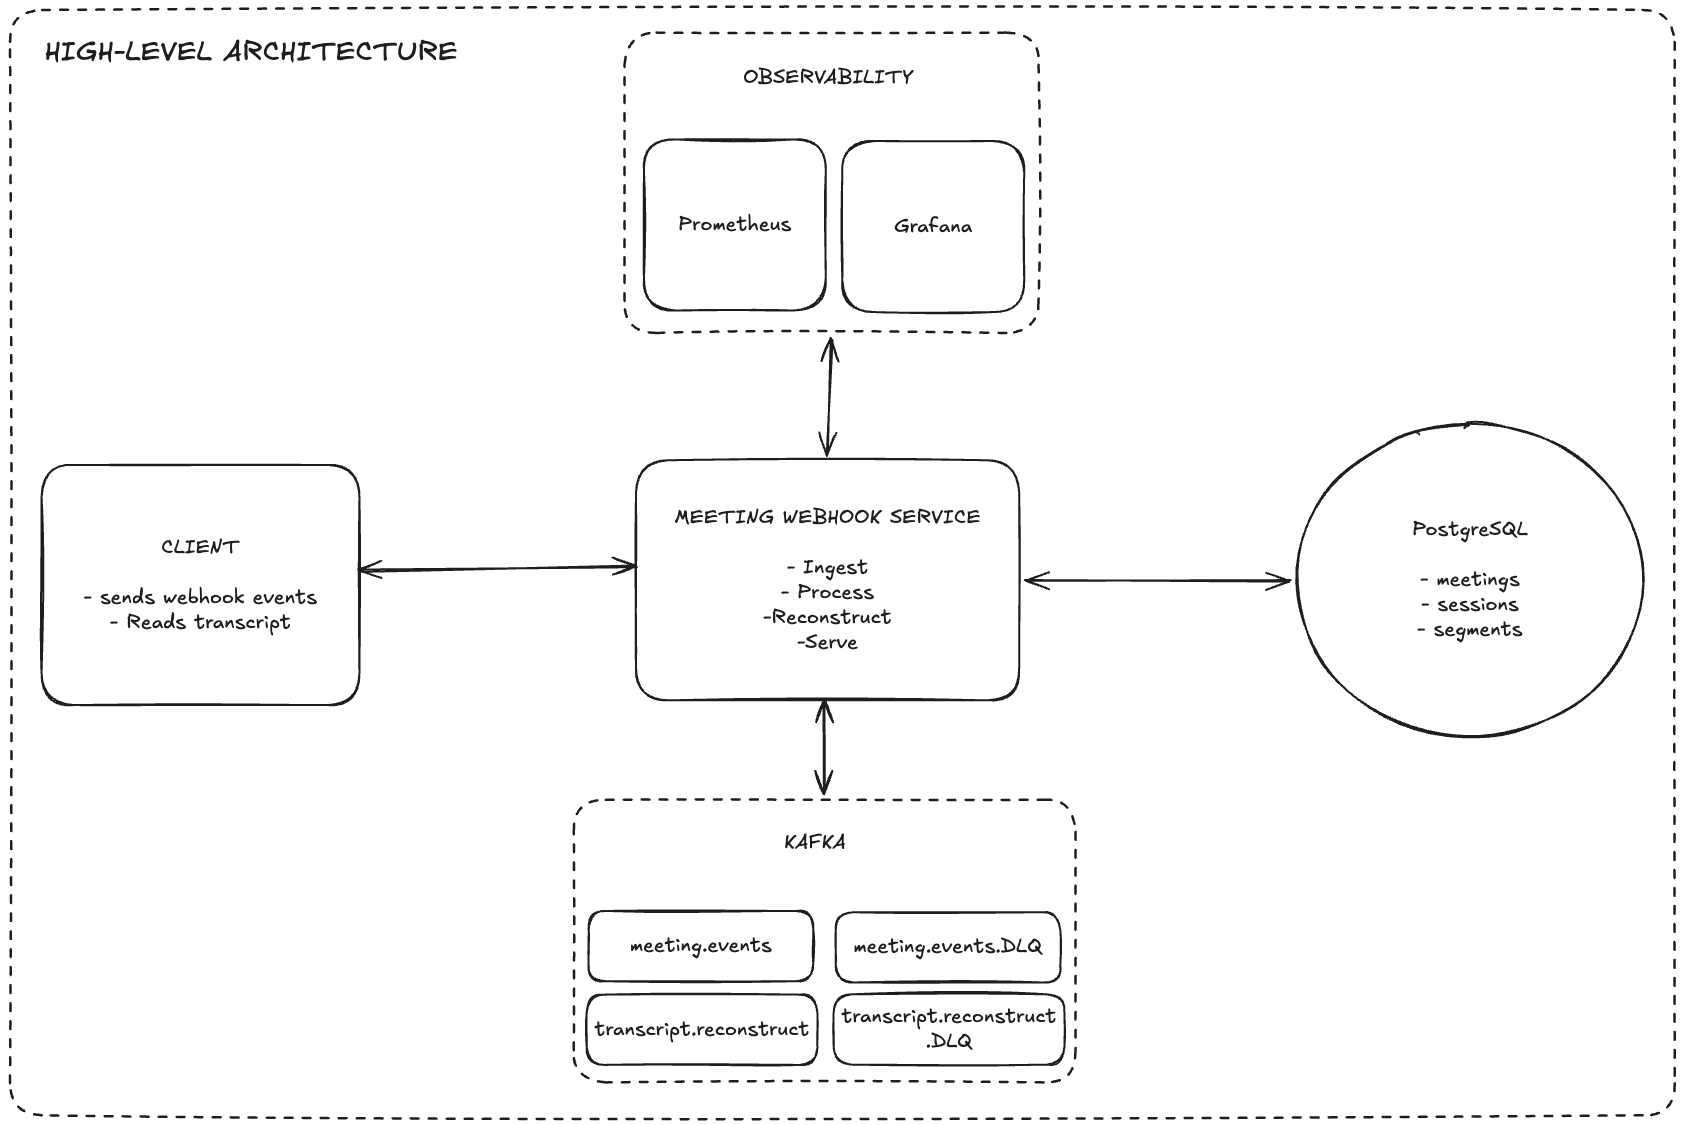
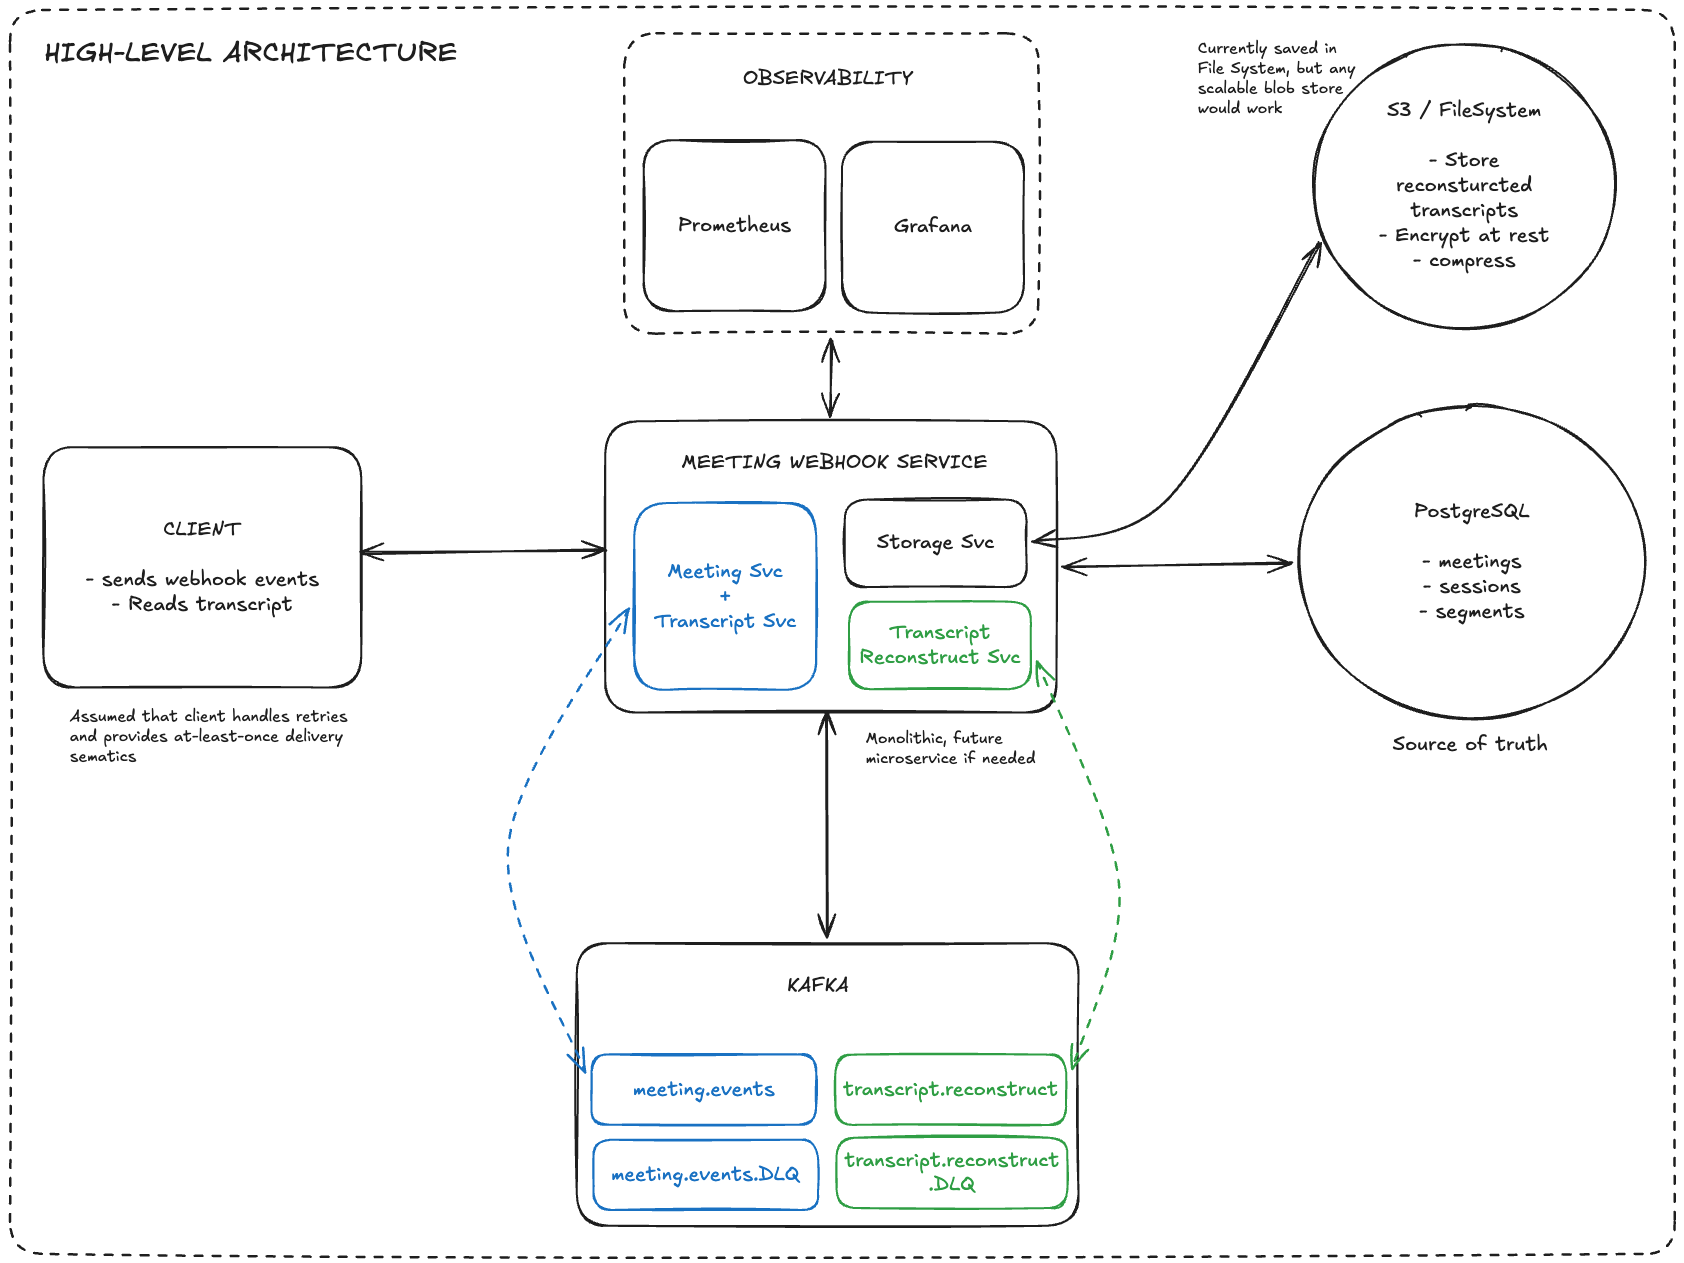
docs: add ports-and-adapters diagram and refactor architecture documentation
- Add ports-and-adapters (hexagonal architecture) HTML diagram with visual explanation of driving adapters, core domain, and driven adapters
- Generate ports-and-adapters.png from HTML diagram for markdown embedding
- Document hexagonal architecture pattern in DESIGN.md with rationale for pragmatic coupling decisions
- Update README.md to restructure sequence diagrams as links and clarify edge-case scenarios
- Refresh architecture-simple.png for improved clarity
- Explain boundary between infrastructure, application services, and domain logic; note trade-offs between strict hexagonal purity and practical exercise constraints

diff --git a/docs/ports-and-adapters.html b/docs/ports-and-adapters.html
@@ -1,0 +1,145 @@
+<!DOCTYPE html>
+<html lang="en">
+<head>
+<meta charset="UTF-8" />
+<title>Ports &amp; Adapters</title>
+<style>
+  * { box-sizing: border-box; margin: 0; padding: 0; }
+  html, body { background: #ffffff; }
+  #canvas {
+    position: relative;
+    width: 1240px;
+    height: 640px;
+    font-family: "Segoe UI", Helvetica, Arial, sans-serif;
+    background:
+      linear-gradient(#f4f6fa 1px, transparent 1px) 0 0 / 100% 40px,
+      linear-gradient(90deg, #f4f6fa 1px, transparent 1px) 0 0 / 40px 100%,
+      #ffffff;
+  }
+  .title { position: absolute; left: 36px; top: 22px; }
+  .title h1 { font-size: 22px; color: #1f2733; }
+  .title p { font-size: 13px; color: #5b6472; margin-top: 4px; }
+
+  .colhdr {
+    position: absolute; font-size: 12px; font-weight: 700; letter-spacing: 1.5px;
+    text-transform: uppercase; color: #5b6472;
+  }
+
+  .node {
+    position: absolute; border-radius: 10px; border: 2px solid;
+    padding: 9px 12px; box-shadow: 0 2px 6px rgba(31,39,51,.08);
+  }
+  .node .t { font-size: 14px; font-weight: 700; color: #1f2733; }
+  .node .s { font-size: 11px; color: #5b6472; margin-top: 2px; }
+
+  .driving { background: #e3f0ff; border-color: #2f6fed; }
+  .driven  { background: #fff2e0; border-color: #e08a1f; }
+  .backend { background: #eef1f5; border-color: #9aa6b8; }
+
+  /* Core hexagon */
+  .core {
+    position: absolute; left: 470px; top: 150px; width: 300px; height: 340px;
+    background: #e4f7ee; border: 2px solid #1f9d63;
+    clip-path: polygon(25% 0, 75% 0, 100% 50%, 75% 100%, 25% 100%, 0 50%);
+    display: flex; flex-direction: column; align-items: center; justify-content: center;
+    text-align: center; padding: 0 44px;
+  }
+  .core .ct { font-size: 15px; font-weight: 800; color: #14663f; letter-spacing: .5px; }
+  .core .cs { font-size: 12px; color: #1f7a4d; margin-top: 8px; line-height: 1.5; }
+  .core .cn { font-size: 11px; color: #2b6e4d; margin-top: 10px; line-height: 1.45; }
+
+  svg.wires { position: absolute; left: 0; top: 0; width: 100%; height: 100%; pointer-events: none; }
+  .plabel {
+    position: absolute; font-size: 10.5px; color: #5b6472; background: #fff;
+    padding: 1px 5px; border-radius: 4px; border: 1px solid #e4e8ef; white-space: nowrap;
+  }
+</style>
+</head>
+<body>
+<div id="canvas">
+  <div class="title">
+    <h1>Ports &amp; Adapters (Hexagonal)</h1>
+    <p>Dependencies point inward — the core defines the ports, adapters implement them</p>
+  </div>
+
+  <div class="colhdr" style="left:60px; top:110px;">Driving adapters →</div>
+  <div class="colhdr" style="left:560px; top:110px;">Core</div>
+  <div class="colhdr" style="left:1010px; top:110px;">← Driven adapters</div>
+
+  <svg class="wires">
+    <defs>
+      <marker id="a" markerWidth="10" markerHeight="10" refX="8" refY="3" orient="auto" markerUnits="strokeWidth">
+        <path d="M0,0 L8,3 L0,6 Z" fill="#7a8699" />
+      </marker>
+    </defs>
+    <!-- driving -> core (calls in through inbound ports) -->
+    <path d="M 300,170 L 500,240" stroke="#7a8699" stroke-width="2" fill="none" marker-end="url(#a)"/>
+    <path d="M 300,250 L 486,285" stroke="#7a8699" stroke-width="2" fill="none" marker-end="url(#a)"/>
+    <path d="M 300,330 L 486,350" stroke="#7a8699" stroke-width="2" fill="none" marker-end="url(#a)"/>
+    <path d="M 300,420 L 500,400" stroke="#7a8699" stroke-width="2" fill="none" marker-end="url(#a)"/>
+
+    <!-- core -> driven (calls out through outbound ports) -->
+    <path d="M 754,240 L 940,180" stroke="#7a8699" stroke-width="2" fill="none" marker-end="url(#a)"/>
+    <path d="M 770,290 L 940,290" stroke="#7a8699" stroke-width="2" fill="none" marker-end="url(#a)"/>
+    <path d="M 754,360 L 940,400" stroke="#7a8699" stroke-width="2" fill="none" marker-end="url(#a)"/>
+
+    <!-- storage port -> backend -->
+    <path d="M 1120,435 L 1120,485" stroke="#7a8699" stroke-width="2" fill="none" marker-end="url(#a)"/>
+  </svg>
+
+  <!-- port labels -->
+  <div class="plabel" style="left:360px; top:150px;">inbound port</div>
+  <div class="plabel" style="left:800px; top:150px;">outbound port</div>
+
+  <!-- Driving adapters -->
+  <div class="node driving" style="left:60px; top:150px; width:230px; height:44px;">
+    <div class="t">WebhookController</div>
+    <div class="s">HTTP POST /webhooks</div>
+  </div>
+  <div class="node driving" style="left:60px; top:230px; width:230px; height:44px;">
+    <div class="t">MeetingEventConsumer</div>
+    <div class="s">Kafka meeting.events</div>
+  </div>
+  <div class="node driving" style="left:60px; top:310px; width:230px; height:44px;">
+    <div class="t" style="font-size:13px;">TranscriptReconstructConsumer</div>
+    <div class="s">Kafka transcript.reconstruct</div>
+  </div>
+  <div class="node driving" style="left:60px; top:390px; width:230px; height:44px;">
+    <div class="t">MeetingReadController</div>
+    <div class="s">HTTP GET transcript</div>
+  </div>
+
+  <!-- Core hexagon -->
+  <div class="core">
+    <div class="ct">DOMAIN + APPLICATION</div>
+    <div class="cs">Meeting · Session · TranscriptSegment</div>
+    <div class="cn">MeetingService · TranscriptService<br/>ReconstructionService · QueryService</div>
+    <div class="cs" style="margin-top:10px;">no HTTP / Kafka / S3 knowledge*</div>
+  </div>
+
+  <!-- Driven adapters -->
+  <div class="node driven" style="left:940px; top:158px; width:250px; height:44px;">
+    <div class="t">Repositories → PostgreSQL</div>
+    <div class="s">Spring Data JPA</div>
+  </div>
+  <div class="node driven" style="left:940px; top:268px; width:250px; height:44px;">
+    <div class="t">Producers → Kafka</div>
+    <div class="s">KafkaProducerService · ReconstructTaskProducer</div>
+  </div>
+  <div class="node driven" style="left:940px; top:378px; width:250px; height:56px;">
+    <div class="t">StorageService (port)</div>
+    <div class="s">LocalFileStorageService today</div>
+  </div>
+
+  <!-- backend -->
+  <div class="node backend" style="left:965px; top:485px; width:200px; height:44px;">
+    <div class="t">S3 / Filesystem</div>
+    <div class="s">assembled transcript files</div>
+  </div>
+
+  <div class="plabel" style="left:36px; top:560px; border:none; color:#8b93a7;">
+    * pragmatic hexagon: domain entities are JPA-annotated and a couple of outbound deps are concrete classes rather than interfaces.
+  </div>
+</div>
+</body>
+</html>

diff --git a/DESIGN.md b/DESIGN.md
@@ -113,6 +113,30 @@ decision, not a rewrite.
 
 ---
 
+## Ports & Adapters
+
+The code follows a ports-and-adapters (hexagonal) shape: transport and infrastructure sit at the
+edges, the domain/application logic sits in the core, and dependencies point inward.
+
+![Ports and adapters](docs/ports-and-adapters.png)
+
+- **Driving adapters** (initiate work): `WebhookController`, `MeetingReadController` (HTTP) and
+  `MeetingEventConsumer`, `TranscriptReconstructConsumer` (Kafka). They translate transport into
+  core calls.
+- **Core**: the domain (`Meeting`, `Session`, `TranscriptSegment`) plus the application services
+  (`MeetingService`, `TranscriptService`, `TranscriptReconstructionService`, `TranscriptQueryService`).
+- **Driven adapters** (the core reaches out to): repositories → PostgreSQL, producers → Kafka, and
+  `StorageService` → filesystem/S3. `StorageService` is the cleanest port — a core interface whose
+  backend swaps (local file today, S3 presigned URLs later) with no change to reconstruction.
+
+**Honest caveat — pragmatic, not purist.** The domain entities are JPA-annotated and a couple of
+outbound dependencies (`KafkaProducerService`, `ReconstructTaskProducer`) are concrete classes rather
+than core-owned interfaces. A strict hexagon would keep the domain framework-free and depend only on
+outbound port interfaces. We accepted that coupling to avoid a persistence-mapping layer for an
+exercise of this size; the boundaries are still clear enough to extract later.
+
+---
+
 ## Tech Baseline
 
 | Choice                | Decision                        | Rationale                                                       |

diff --git a/README.md b/README.md
@@ -30,17 +30,11 @@ when a meeting ends, and exposes a read API to retrieve the ordered transcript f
 
 ![High-level architecture](docs/architecture-simple.png)
 
-### Happy-path sequence
-
-The full lifecycle — `meeting.started` → N × `meeting.transcript` → `meeting.ended` →
-reconstruction → read:
-
-![Happy-path sequence diagram](docs/sequence-happy-path.png)
-
 ### Edge-case sequences
 
-One sequence diagram per non-happy-path scenario (see [`DESIGN.md`](DESIGN.md) for the rationale):
+One sequence diagram per scenario (see [`DESIGN.md`](DESIGN.md) for the rationale):
 
+- [Happy-path sequence diagram](docs/sequence-happy-path.png)
 - [Duplicate transcript chunk](docs/sequence-duplicate-transcript.png) — same `transcriptId` twice → stored once
 - [Out-of-order delivery](docs/sequence-out-of-order.png) — seq 3, 1, 2 → ordered on read
 - [Transcript after `meeting.ended`](docs/sequence-transcript-after-ended.png) — still stored, session stays ENDED
